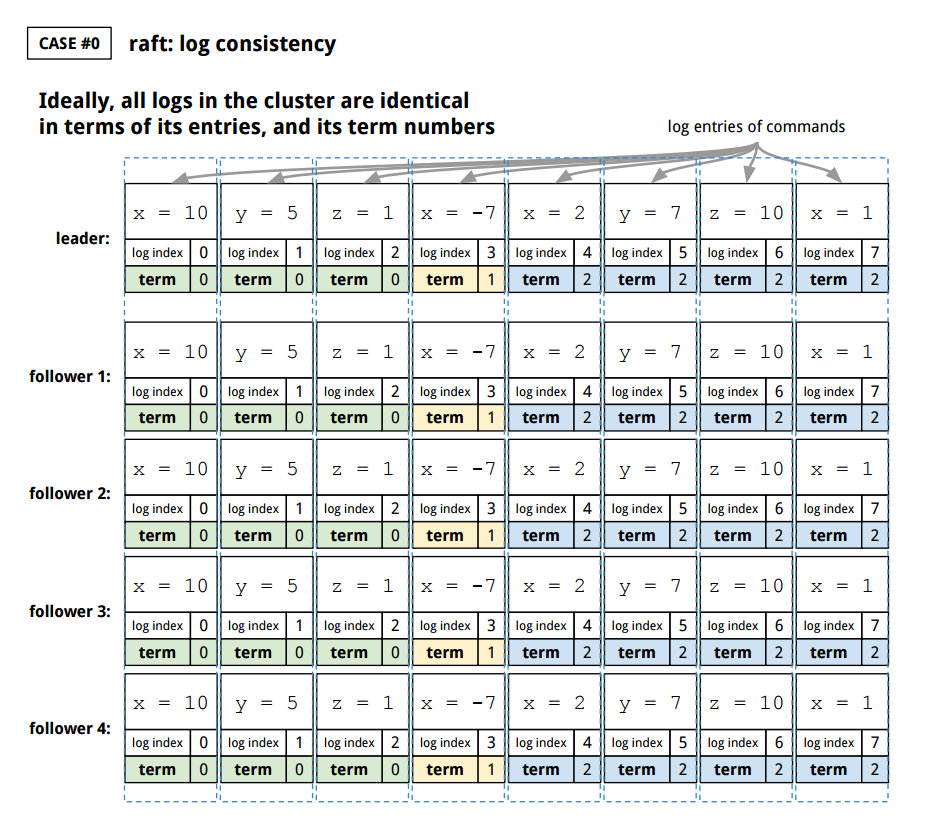
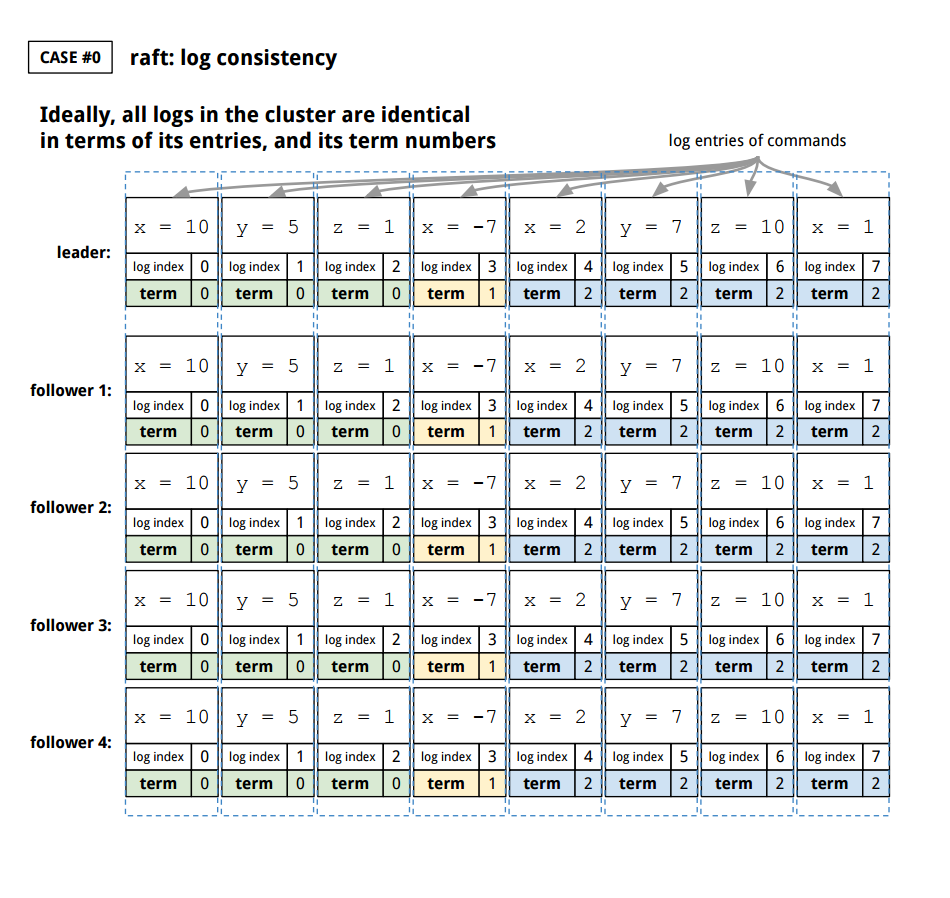
add more margins to image

diff --git a/doc/etcd_raft_algorithm/README.md b/doc/etcd_raft_algorithm/README.md
@@ -315,7 +315,9 @@ Here's how log replication works:
 #### raft algorithm: log consistency
 
 ![raft_log_consistency_00](img/raft_log_consistency_00.png)
+<br>
 ![raft_log_consistency_01](img/raft_log_consistency_01.png)
+<br>
 ![raft_log_consistency_02](img/raft_log_consistency_02.png)
 
 [↑ top](#etcd-raft-algorithm)
